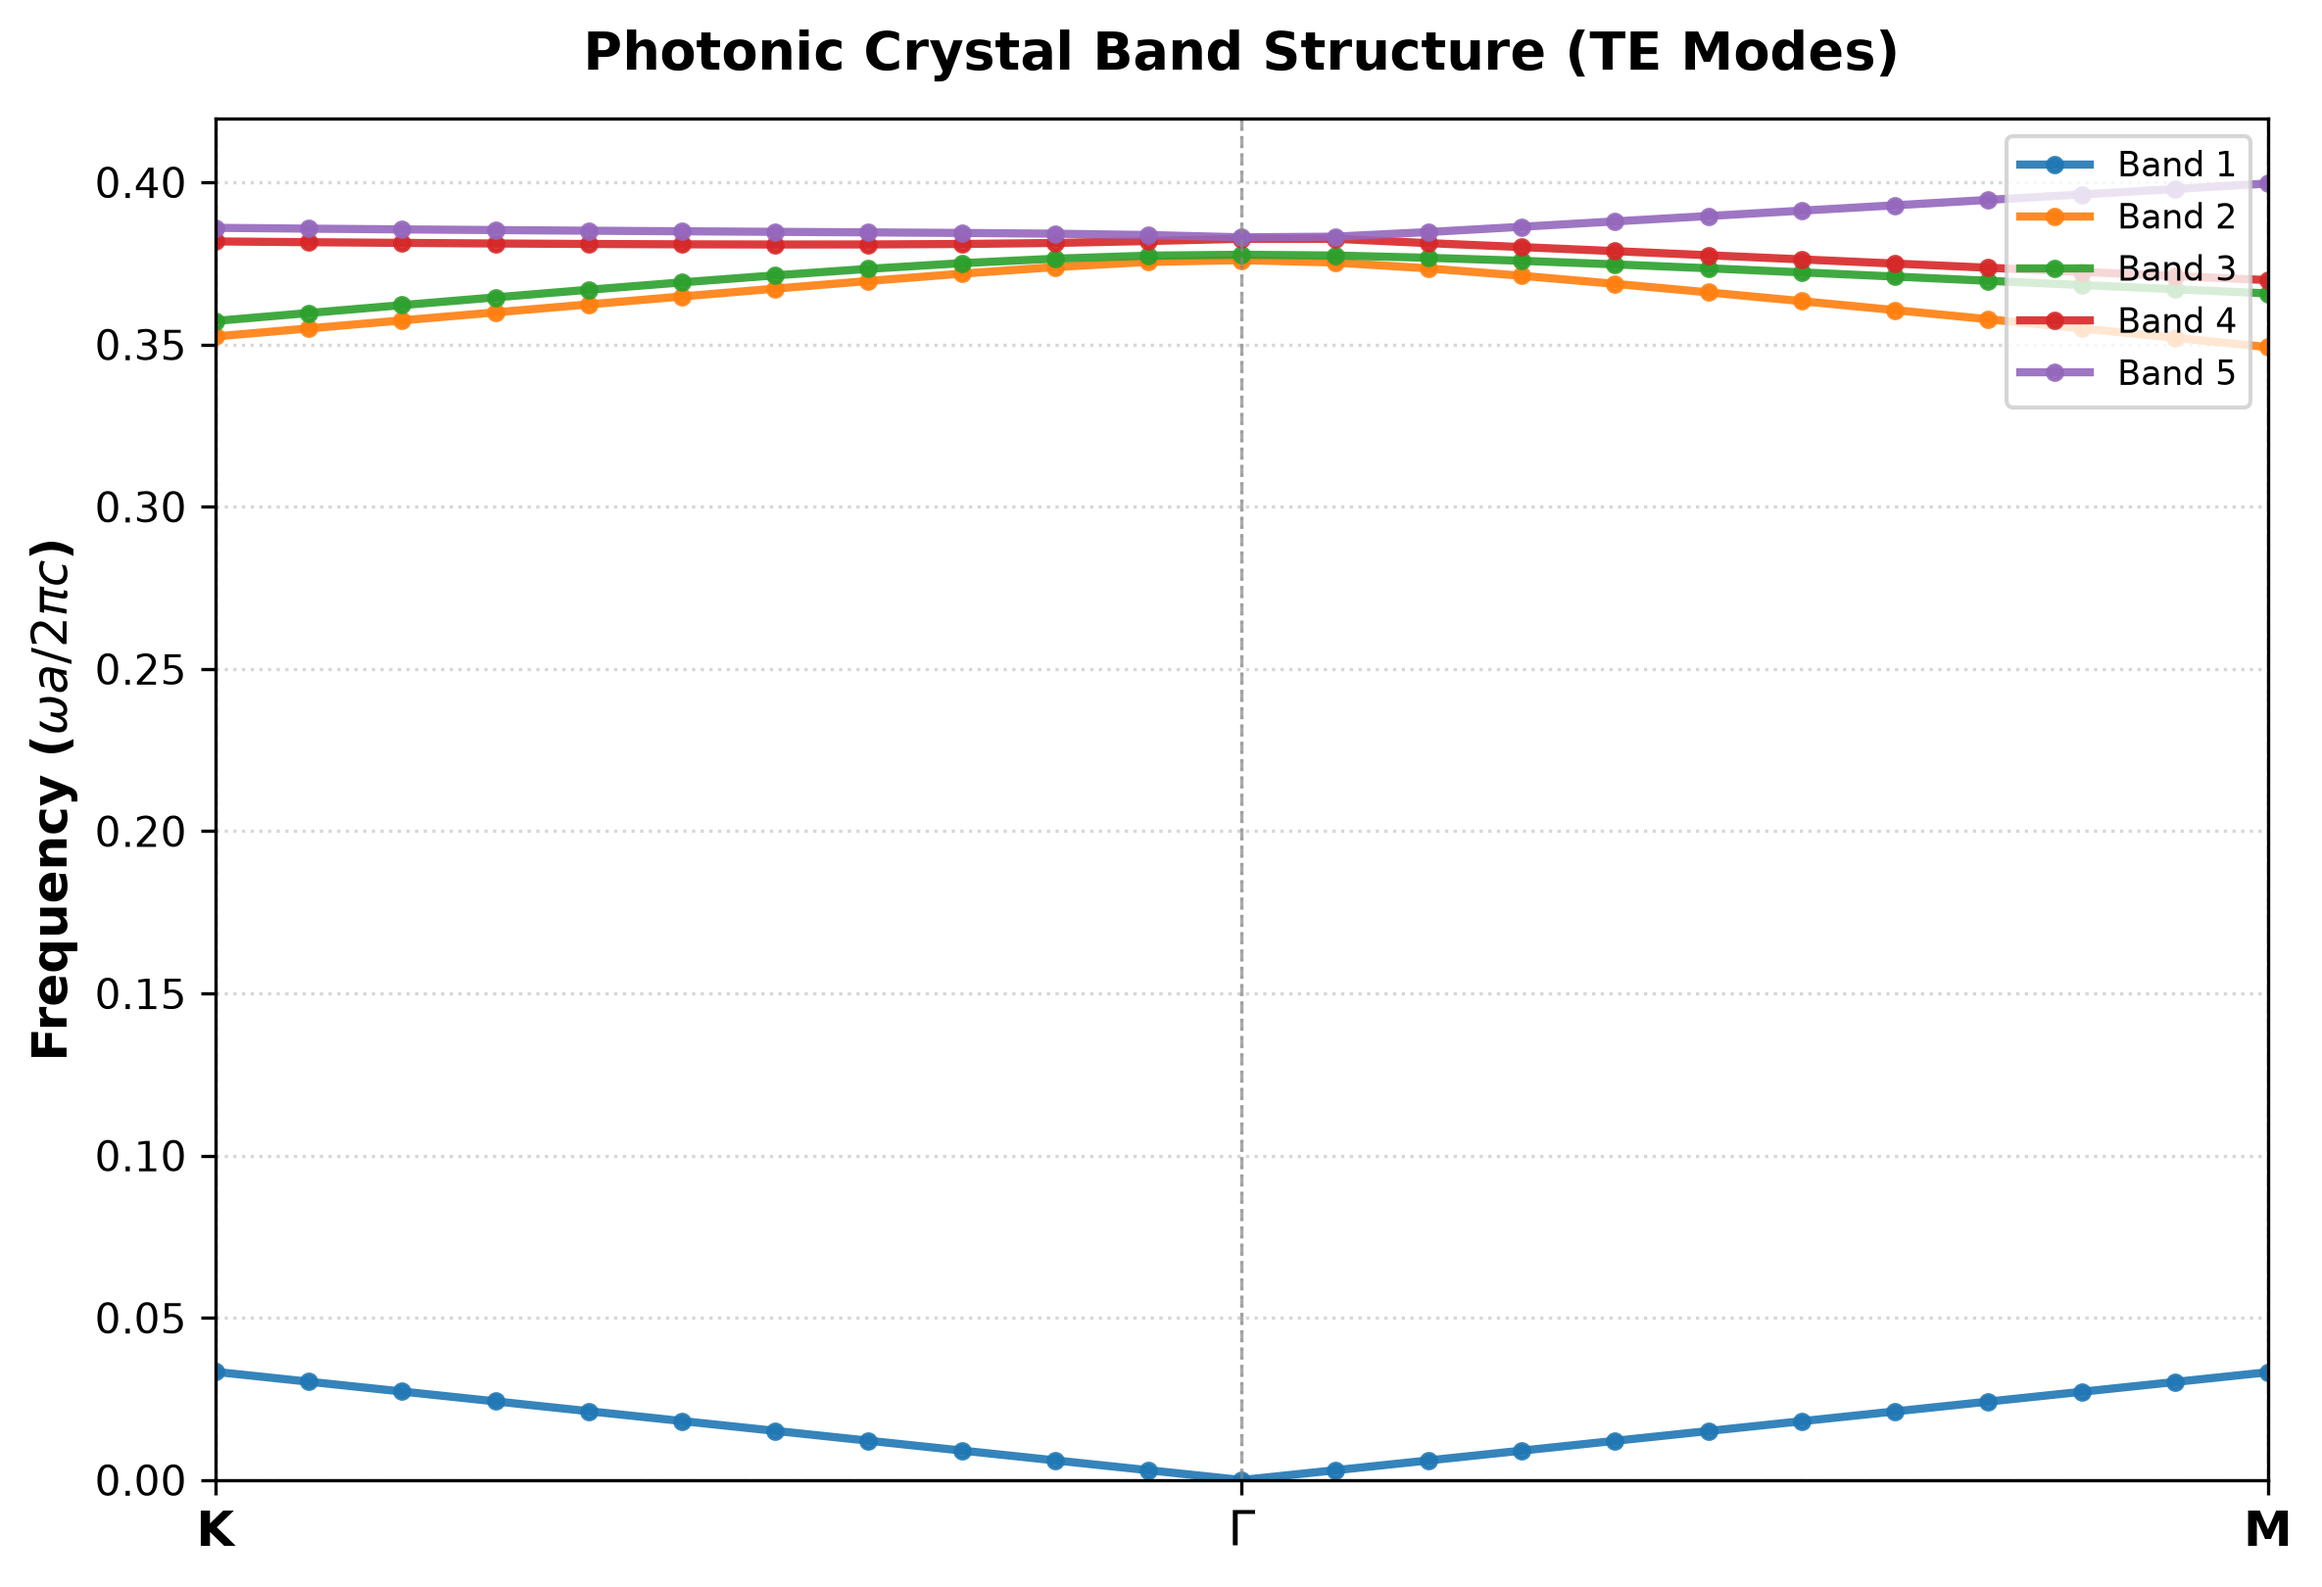
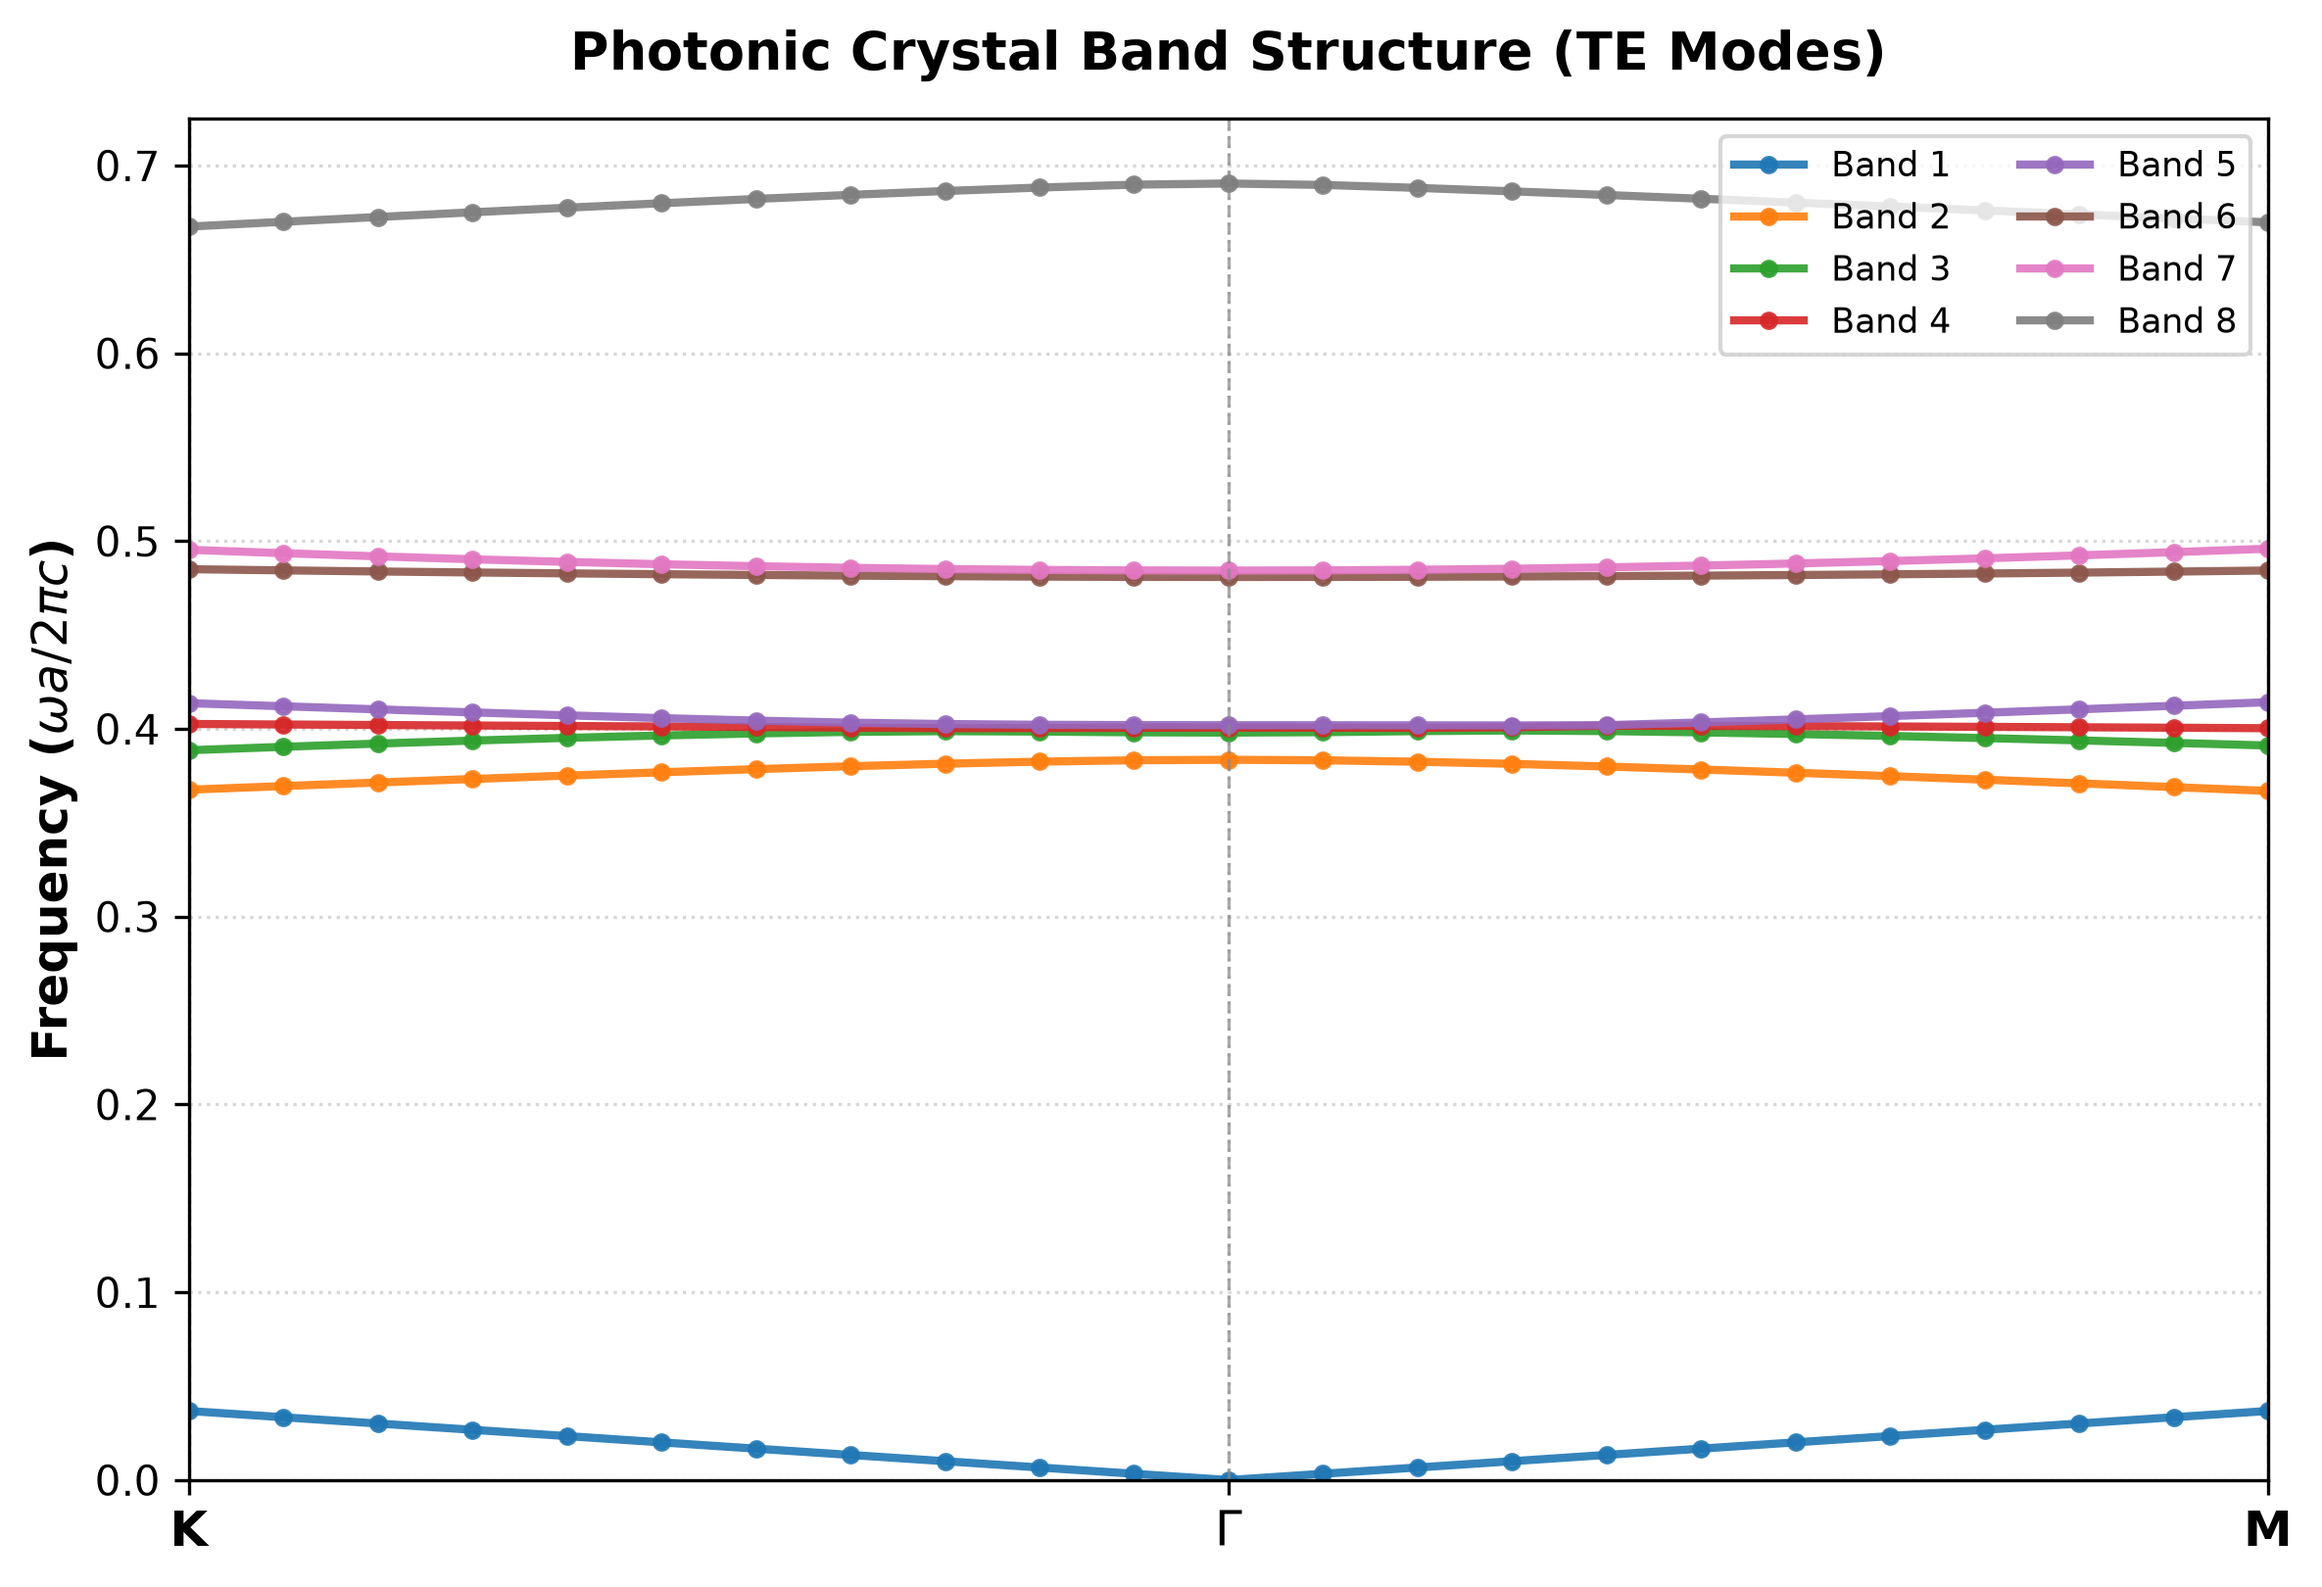
feat(v2): auto-detect single .ctl file in target directory when -s/--script is omitted

Changed region(s): [[0.0312, 0.0617, 0.9992, 0.9877], [0.2498, 0.0, 0.8118, 0.0617], [0.5932, 0.8642, 0.9992, 0.9259]]

diff --git a/src/phc_nzi/runner.py b/src/phc_nzi/runner.py
@@ -173,8 +173,8 @@ def main() -> None:
     parser.add_argument(
         "-s", "--script",
         type=str,
-        default="example.ctl",
-        help="MPB control file (.ctl) to run (default: example.ctl)"
+        default=None,
+        help="MPB control file (.ctl) to run (default: auto-detected if unique file present in --dir)"
     )
     parser.add_argument(
         "-c", "--cores",
@@ -192,6 +192,26 @@ def main() -> None:
 
     target_dir = Path(args.dir).resolve()
     script_path = args.script
+
+    # Auto-detect .ctl script in target_dir if -s / --script is not specified
+    if script_path is None:
+        ctl_files_in_dir = [
+            f.name for f in target_dir.glob("*.ctl")
+            if f.name != "init.ctl"
+        ]
+        if len(ctl_files_in_dir) == 1:
+            script_path = ctl_files_in_dir[0]
+            print(f"Auto-detected single control script in '{target_dir}': {script_path}")
+        elif len(ctl_files_in_dir) > 1:
+            if "main.ctl" in ctl_files_in_dir:
+                script_path = "main.ctl"
+            elif "example.ctl" in ctl_files_in_dir:
+                script_path = "example.ctl"
+            else:
+                script_path = ctl_files_in_dir[0]
+            print(f"Multiple .ctl scripts found in '{target_dir}'. Selected: {script_path}")
+        else:
+            script_path = "example.ctl"
 
     if input(f"Do you want to run the script '{script_path}' in directory '{target_dir}'? (y/n): ").strip().lower() == "y":
         print(f"Running MPB script '{script_path}' in directory '{target_dir}'...")
